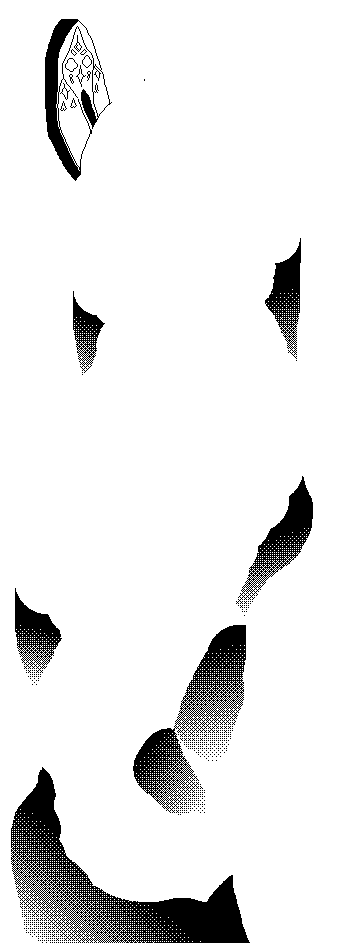
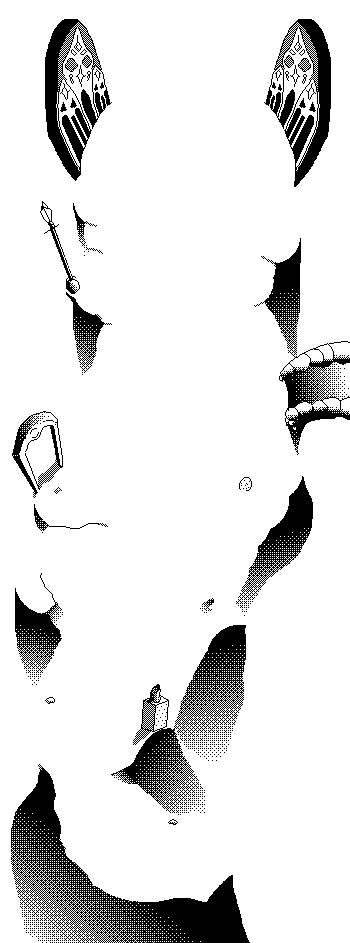
Rework on main menu

diff --git a/ui.c b/ui.c
@@ -47,6 +47,18 @@ float debounceTime = 0.15;
 bool _PANEL_CLICKED_THIS_FRAME = false;
 bool _TEXTINPUT_HIGHLIGHTED = false;
 
+bool ButtonIsMousedOver(UIElement* u)
+{
+    Button* b = (Button*)u->data;
+    if (b->mousedOver)  
+        return true;
+}
+bool ButtonIsHeld(UIElement* u)
+{
+    Button* b = (Button*)u->data;
+    return b->clicked;
+}
+
 void DisableButton(UIElement* u)
 {
     Button* b = (Button*)u->data;
@@ -689,19 +701,57 @@ void DrawReplayUI(Replay* r, MouseState* mouseState, MouseState* mouseStateLastF
 
 
 }
-
 void UpdateInterface(float dt, ALLEGRO_KEYBOARD_STATE* keyState, MouseState* mouseState, ALLEGRO_KEYBOARD_STATE* keyStateLastFrame, MouseState* mouseStateLastFrame)
 {
     UpdateUI(keyState,mouseState,keyStateLastFrame,mouseStateLastFrame,dt);
     if (ui.currentPanel == &ui.mainMenuPanel)
     {
+        bool buttonIsMousedOver = 
+            //ButtonIsMousedOver(GetUIElement(&ui.mainMenuPanel,"Load Replay"))
+            //||
+            ButtonIsMousedOver(GetUIElement(&ui.mainMenuPanel,"Return"))
+            ||
+            ButtonIsMousedOver(GetUIElement(&ui.mainMenuPanel,"Tutorial"))
+            ||
+            ButtonIsMousedOver(GetUIElement(&ui.mainMenuPanel,"Options"))
+            ||
+            ButtonIsMousedOver(GetUIElement(&ui.mainMenuPanel,"Exit"));
+
+        bool returnHeld = ButtonIsHeld(GetUIElement(&ui.mainMenuPanel,"Return"));
+        bool tutorialHeld = ButtonIsHeld(GetUIElement(&ui.mainMenuPanel,"Tutorial"));
+        bool optionsHeld = ButtonIsHeld(GetUIElement(&ui.mainMenuPanel,"Options"));
+        bool exitHeld = ButtonIsHeld(GetUIElement(&ui.mainMenuPanel,"Exit"));
+
+        bool returnClicked = GetButton(&ui.mainMenuPanel,"Return");
+        bool tutorialClicked = GetButton(&ui.mainMenuPanel,"Tutorial");
+        bool optionsClicked = GetButton(&ui.mainMenuPanel,"Options");
+        bool exitClicked = GetButton(&ui.mainMenuPanel,"Exit");
+
+        bool buttonIsHeld = 
+            returnHeld || tutorialHeld || optionsHeld || exitHeld;
+        bool buttonIsClicked = 
+            returnClicked || tutorialClicked || optionsClicked || exitClicked;
+
+            
+        if (buttonIsHeld || buttonIsClicked || GameStateIsTransition(&gameState))
+        {
+            SetWidgetSprite(GetWidgetByName(GAMESTATE_MAIN_MENU,"Hand"),"assets/ui/mainmenu/fist.png");
+        }
+        else if (buttonIsMousedOver)
+        {
+            SetWidgetSprite(GetWidgetByName(GAMESTATE_MAIN_MENU,"Hand"),"assets/ui/mainmenu/semiclosed_hand.png");
+        }
+        else
+        {
+            SetWidgetSprite(GetWidgetByName(GAMESTATE_MAIN_MENU,"Hand"),"assets/ui/mainmenu/hand.png");
+        }
         if (GetButton(&ui.mainMenuPanel,"Load Replay"))
         {
             ChangeUIPanel(&ui.loadReplayPanel);       
             ClearPanelElements(&ui.loadReplayPanel);
             GenerateFileListButtons("replays/",&ui.loadReplayPanel);
         }
-        if (GetButton(&ui.mainMenuPanel,"Return"))
+        if (returnClicked)
         {
             //ui.currentPanel = NULL;
             if (gameState == GAMESTATE_MAIN_MENU)
@@ -712,15 +762,15 @@ void UpdateInterface(float dt, ALLEGRO_KEYBOARD_STATE* keyState, MouseState* mou
                 combatStarted = false;
             }
         }
-        if (GetButton(&ui.mainMenuPanel,"Tutorial"))
+        if (tutorialClicked)
         {
             GoTutorial();
         }
-        if (GetButton(&ui.mainMenuPanel,"Options"))
+        if (optionsClicked)
         {
             ChangeUIPanel(&ui.videoOptionsPanel);
         }
-        if (GetButton(&ui.mainMenuPanel,"Exit"))
+        if (exitClicked)
         {
             Quit();
         }
@@ -1998,6 +2048,13 @@ void UpdateLanternWidget(Widget* self, float dt)
     self->timer += dt;
     self->rotation = sinf(self->timer) * 0.1f;
 }
+void UpdateHandWidget(Widget* self, float dt)
+{
+    self->timer += dt;
+    self->velocity = 0;
+    self->y += sinf(self->timer) * 0.1f;
+}
+
 UIElement* GetUIElement(Panel* p, char* name)
 {
     for (int i = 0; i < p->numElements; i++)
@@ -2400,6 +2457,20 @@ void InitControlsPanel()
 
 
 }
+void SetWidgetSprite(Widget* w, char* sprite)
+{
+    int sprIndex = LoadSprite(sprite,false);
+    w->spriteIndex = sprIndex;
+}
+Widget* GetWidgetByName(GameState gameState, char* name)
+{
+    for (int i = 0; i < numSprites_States[gameState]; i++)
+    {
+        Widget* w = &Widgets_States[gameState][i];
+        if (w->name && strcmp(name,w->name) == 0)
+            return w;
+    }
+}
 void InitUI()
 {
     ui.augmentIconIndex = LoadSprite("assets/ui/augment.png",false);
@@ -2467,27 +2538,31 @@ void InitUI()
     int gear64 = LoadSprite("assets/ui/gear64x64.png",false);
 
     int lantern = LoadSprite("assets/ui/mainmenu/lantern.png",false);
+    int hand = LoadSprite("assets/ui/mainmenu/hand.png",false);
     int name = LoadSprite("assets/ui/mainmenu/name.png",false);
     int block = LoadSprite("assets/ui/mainmenu/block.png",false);
     int edge = LoadSprite("assets/ui/mainmenu/mainmenuedges.png",false);
 
-    CreateWidget(GAMESTATE_MAIN_MENU,&sprites[edge],0,0,0.5,0.5,DRAWORDER_BEFOREUI,0,NULL);
+    CreateWidget(GAMESTATE_MAIN_MENU,"Edge",&sprites[edge],0,0,0.5,0.5,DRAWORDER_BEFOREUI,0,NULL);
 
-    CreateWidget(GAMESTATE_MAIN_MENU,&sprites[block],157,93,0.5,0.5,DRAWORDER_BEFOREUI,0,NULL);
-    CreateWidget(GAMESTATE_MAIN_MENU,&sprites[lantern],155,100,0.46,0.033,DRAWORDER_BEFOREUI,0,UpdateLanternWidget);
+    //CreateWidget(GAMESTATE_MAIN_MENU,"Block",&sprites[block],157,93,0.5,0.5,DRAWORDER_BEFOREUI,0,NULL);
+    //CreateWidget(GAMESTATE_MAIN_MENU,"Lantern",&sprites[lantern],155,100,0.46,0.033,DRAWORDER_BEFOREUI,0,UpdateLanternWidget);
+    Widget* handWidget = CreateWidget(GAMESTATE_MAIN_MENU,"Hand",&sprites[hand],115,82,0.46,0.033,DRAWORDER_BEFOREUI,0,UpdateHandWidget);
+    handWidget->desiredY = 0;
+    CreateWidget(GAMESTATE_MAIN_MENU,"Name",&sprites[name],29,50,0.5,0.5,DRAWORDER_BEFOREUI,0,NULL);
 
-    CreateWidget(GAMESTATE_MAIN_MENU,&sprites[name],29,50,0.5,0.5,DRAWORDER_BEFOREUI,0,NULL);
+
 
     int x = -5;
 
     for (int i = 0; i < _SCREEN_SIZE/32; i++)
     {   
 
-        //CreateWidget(GAMESTATE_MAIN_MENU,&sprites[gear32],x,0,DRAWORDER_AFTERUI,0);
-        //CreateWidget(GAMESTATE_MAIN_MENU,&sprites[gear32],x+16,18,DRAWORDER_AFTERUI,0);
+        //CreateWidget(GAMESTATE_MAIN_MENU,"Gear",&sprites[gear32],x,0,DRAWORDER_AFTERUI,0);
+        //CreateWidget(GAMESTATE_MAIN_MENU,"Gear",&sprites[gear32],x+16,18,DRAWORDER_AFTERUI,0);
 
-        //CreateWidget(GAMESTATE_MAIN_MENU,&sprites[gear32],x,_SCREEN_SIZE-32,DRAWORDER_AFTERUI,0);
-        //CreateWidget(GAMESTATE_MAIN_MENU,&sprites[gear32],x+16,_SCREEN_SIZE-50,DRAWORDER_AFTERUI,0);
+        //CreateWidget(GAMESTATE_MAIN_MENU,"Gear",&sprites[gear32],x,_SCREEN_SIZE-32,DRAWORDER_AFTERUI,0);
+        //CreateWidget(GAMESTATE_MAIN_MENU,"Gear",&sprites[gear32],x+16,_SCREEN_SIZE-50,DRAWORDER_AFTERUI,0);
 
         x+=31;
     }
@@ -2496,9 +2571,13 @@ void InitUI()
 }
 void UpdateWidget(Widget* w, float dt)
 {
+    float directionX = w->desiredX - w->x;
+    float directionY = w->desiredY - w->y;
+
+
     w->x = Towards(w->x,w->desiredX,w->velocity*dt);
     w->y = Towards(w->y,w->desiredY,w->velocity*dt);
-    w->rotation += w->rotationSpeed*dt; 
+    w->rotation += w->rotationSpeed*dt;     
 
     if (w->updateFunc)
     {
@@ -2523,7 +2602,7 @@ void UpdateWidgets(float dt)
         }
     }
 }
-Widget* CreateWidget(GameState gameStateToAttach, Sprite* spr, int x, int y, float originX, float originY, Widget_DrawOrder drawOrder, int id, void* func)
+Widget* CreateWidget(GameState gameStateToAttach, char* name, Sprite* spr, int x, int y, float originX, float originY, Widget_DrawOrder drawOrder, int id, void* func)
 {
     Widget s = {0};
     s.spriteIndex = spr - sprites;
@@ -2537,7 +2616,11 @@ Widget* CreateWidget(GameState gameStateToAttach, Sprite* spr, int x, int y, flo
     s.originY = originY;
     s.updateFunc = func;
     s.timer = 0;
-
+    if (name)
+    {
+        s.name = calloc(strlen(name)+1,sizeof(char));
+        strcpy(s.name,name);
+    }
     if ((numSprites_States[gameStateToAttach] + 1) % NUMSPRITESTATESTOALLOC == 0)
     {
         int reallocTo = ceilf((float)numSprites_States[gameStateToAttach] + NUMSPRITESTATESTOALLOC)/(float)NUMSPRITESTATESTOALLOC+1;
@@ -2767,9 +2850,17 @@ void UpdateButton(int rX, int rY, int w, int h, UIElement* u, MouseState mouseSt
         return;
     Button* b = (Button*)u->data;
     b->activated = false;
+    b->mousedOver = false;
+
+    Rect r = (Rect){rX,rY,w,h};
+
+    if (PointInRect(mouseState.screenX,mouseState.screenY,r))
+    {
+        b->mousedOver = true;
+    }
+
     if (mouseState.mouse.buttons & 1 && !(mouseStateLastFrame.mouse.buttons & 1))
     {
-        Rect r = (Rect){rX,rY,w,h};
         if (PointInRect(mouseState.screenX,mouseState.screenY,r))
         {
             if (!b->clicked)
@@ -2781,8 +2872,6 @@ void UpdateButton(int rX, int rY, int w, int h, UIElement* u, MouseState mouseSt
     }
     if (mouseStateLastFrame.mouse.buttons & 1 && !(mouseState.mouse.buttons & 1))
     {
-        Rect r = (Rect){rX,rY,w,h};
-
         if (b->clicked)
         {
             if (PointInRect(mouseState.screenX,mouseState.screenY,r))

diff --git a/ui.h b/ui.h
@@ -116,6 +116,7 @@ typedef struct Button
     bool activated;
     int spriteIndex;
     bool drawLine;
+    bool mousedOver;
 } Button;
 
 typedef struct UIElement
@@ -262,11 +263,13 @@ typedef struct Widget
     float rotation;
     float rotationSpeed;
     Widget_DrawOrder drawOrder;
-    int x; int y;
+    float x; float y;
     int desiredX; int desiredY;
     float originX; float originY;
     int id;
     float velocity;
+
+    char* name;
 
     float timer; 
     void (*updateFunc)(struct Widget* self, float dt);
@@ -303,7 +306,7 @@ bool DebounceActive();
 
 void DisableButton(UIElement* u);
 Panel CreatePanel(int x, int y, int w, int h, int padding, bool showBorder);
-Widget* CreateWidget(GameState gameStateToAttach, Sprite* spr, int x, int y, float originX, float originY, Widget_DrawOrder drawOrder, int id, void* func);
+Widget* CreateWidget(GameState gameStateToAttach, char* name, Sprite* spr, int x, int y, float originX, float originY, Widget_DrawOrder drawOrder, int id, void* func);
 void DrawMouse(MouseState* mouseState, GameObject* mousedOver);
 void DrawMouseSelectBox(MouseState mouseState);
 void GetAbilityClickedInsideUI(MouseState mouseState, MouseState mouseStateLastFrame);
@@ -377,3 +380,7 @@ UIElement* AddSlider(Panel* p, int x, int y, int w, int h, char* name, float fil
 void SetUIElementFont(UIElement* u, ALLEGRO_FONT* f);
 
 void DrawUIHighlight(UIElement* u, float x, float y);
+
+Widget* GetWidgetByName(GameState gameState, char* name);
+void SetWidgetSprite(Widget* w, char* sprite);
+
